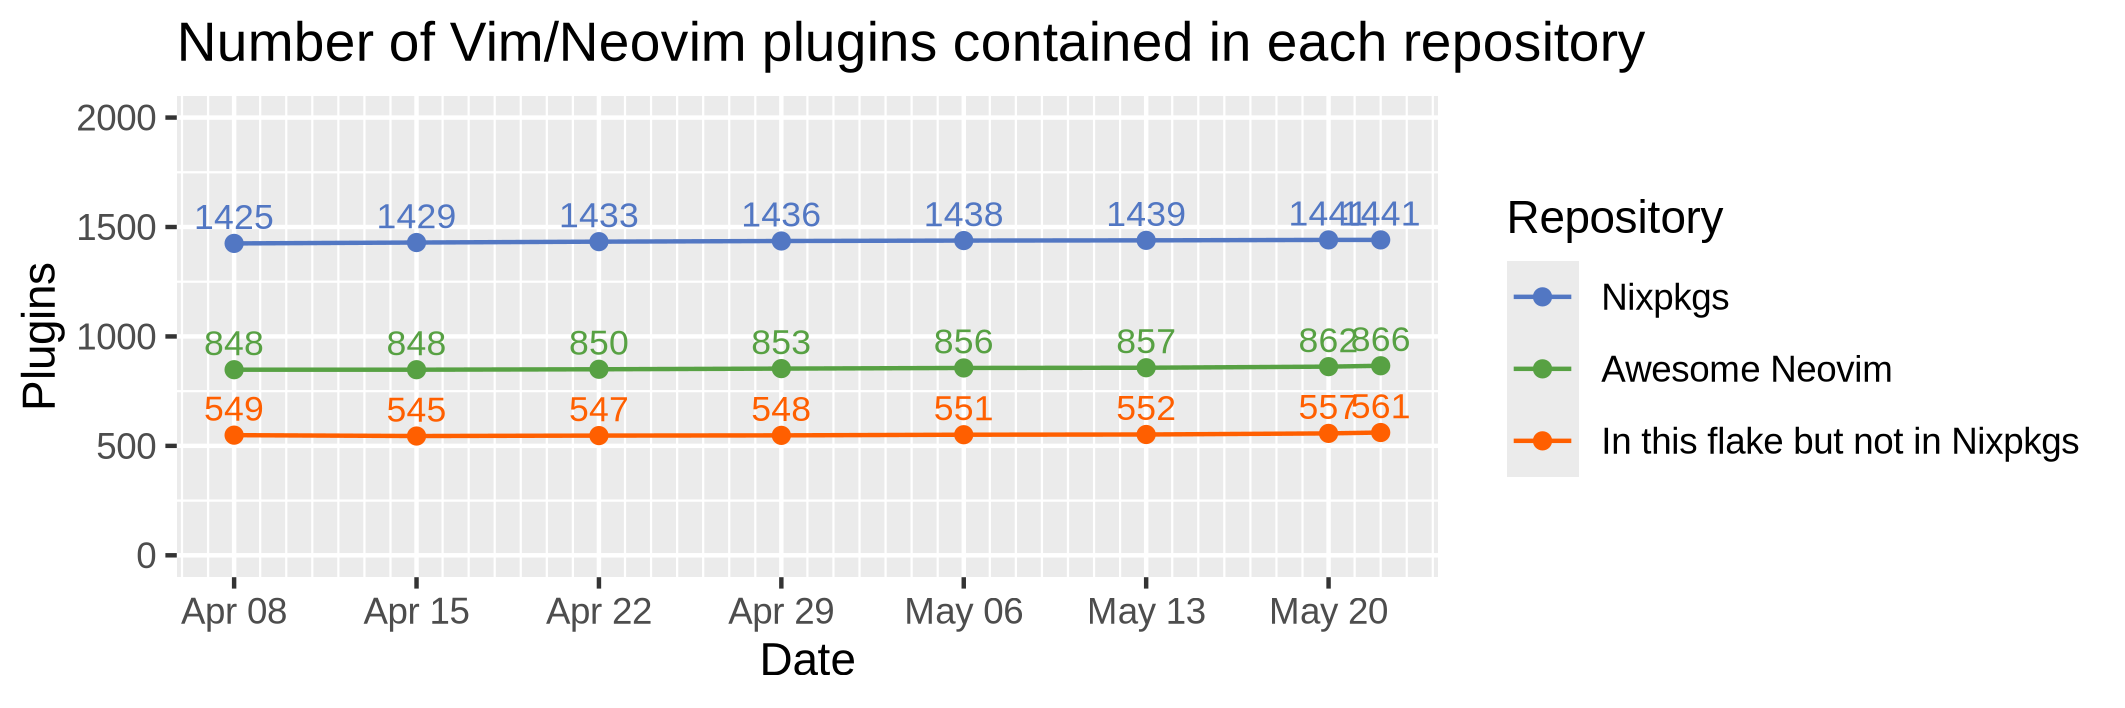
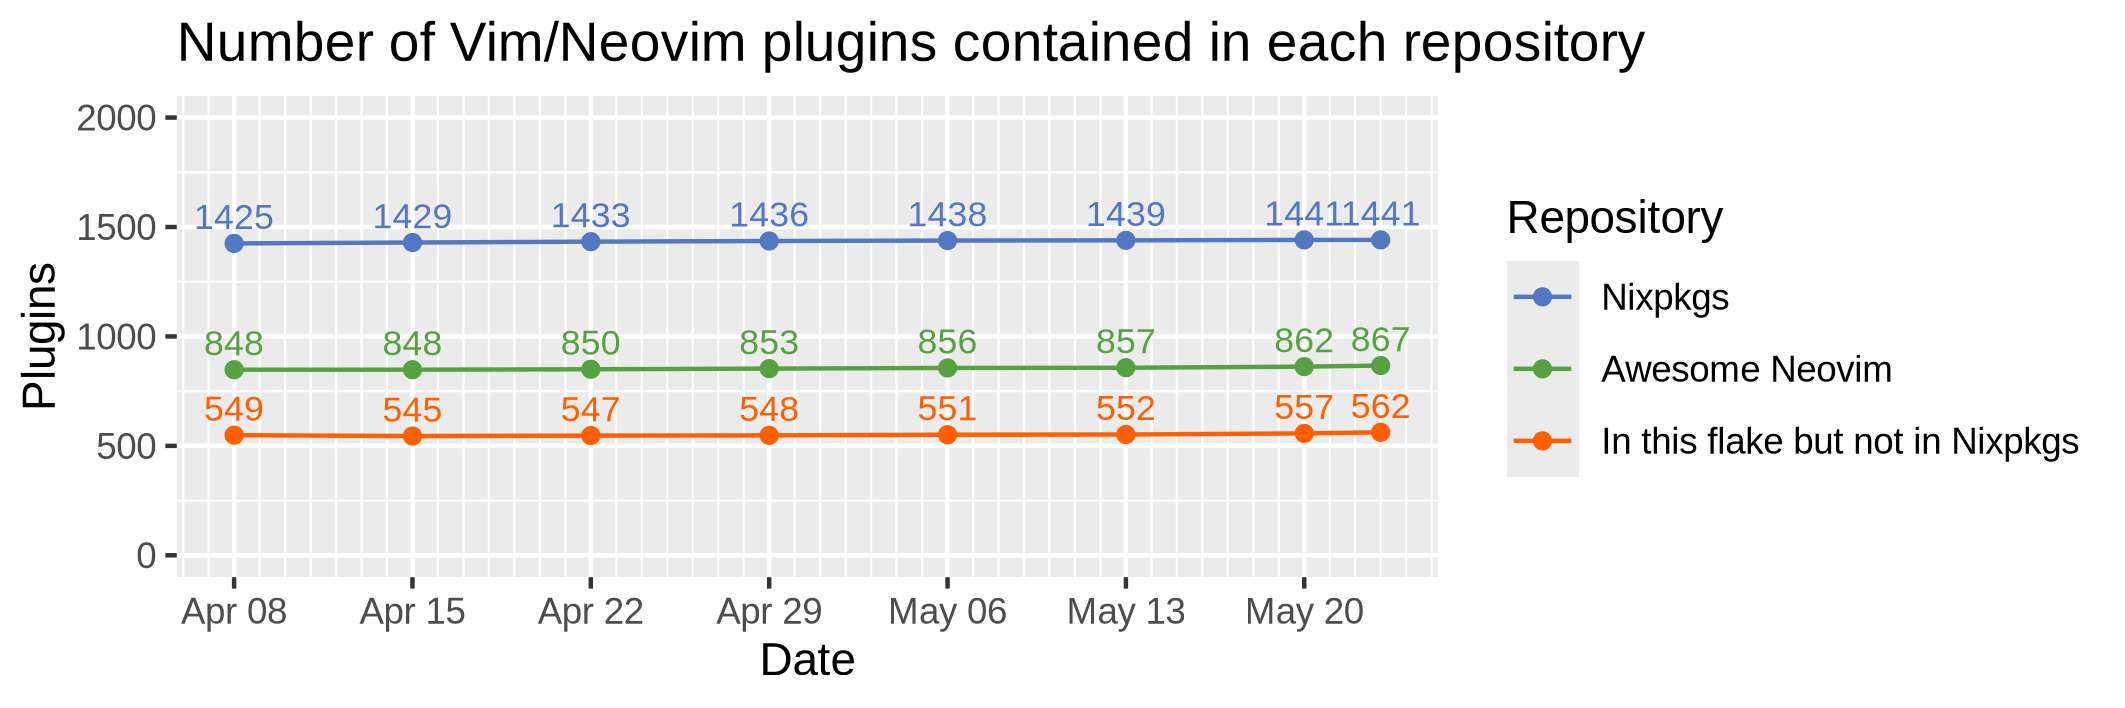
auto: update vim plugins

diff --git a/README.md b/README.md
@@ -8,7 +8,7 @@ Nix flake of Awesome Neovim plugins.
 
 [b1]: https://img.shields.io/github/actions/workflow/status/m15a/flake-awesome-neovim-plugins/check.yml?style=flat-square&logo=github&label=CI
 [b2]: https://github.com/m15a/flake-awesome-neovim-plugins/actions/workflows/check.yml
-[b3]: https://img.shields.io/badge/Awesome_Neovim_plugins-866-57A143?style=flat-square
+[b3]: https://img.shields.io/badge/Awesome_Neovim_plugins-867-57A143?style=flat-square
 [b4]: https://img.shields.io/endpoint?url=https://flakehub.com/f/m15a/flake-awesome-neovim-plugins/badge&style=flat-square
 [b5]: https://flakehub.com/flake/m15a/flake-awesome-neovim-plugins
 
